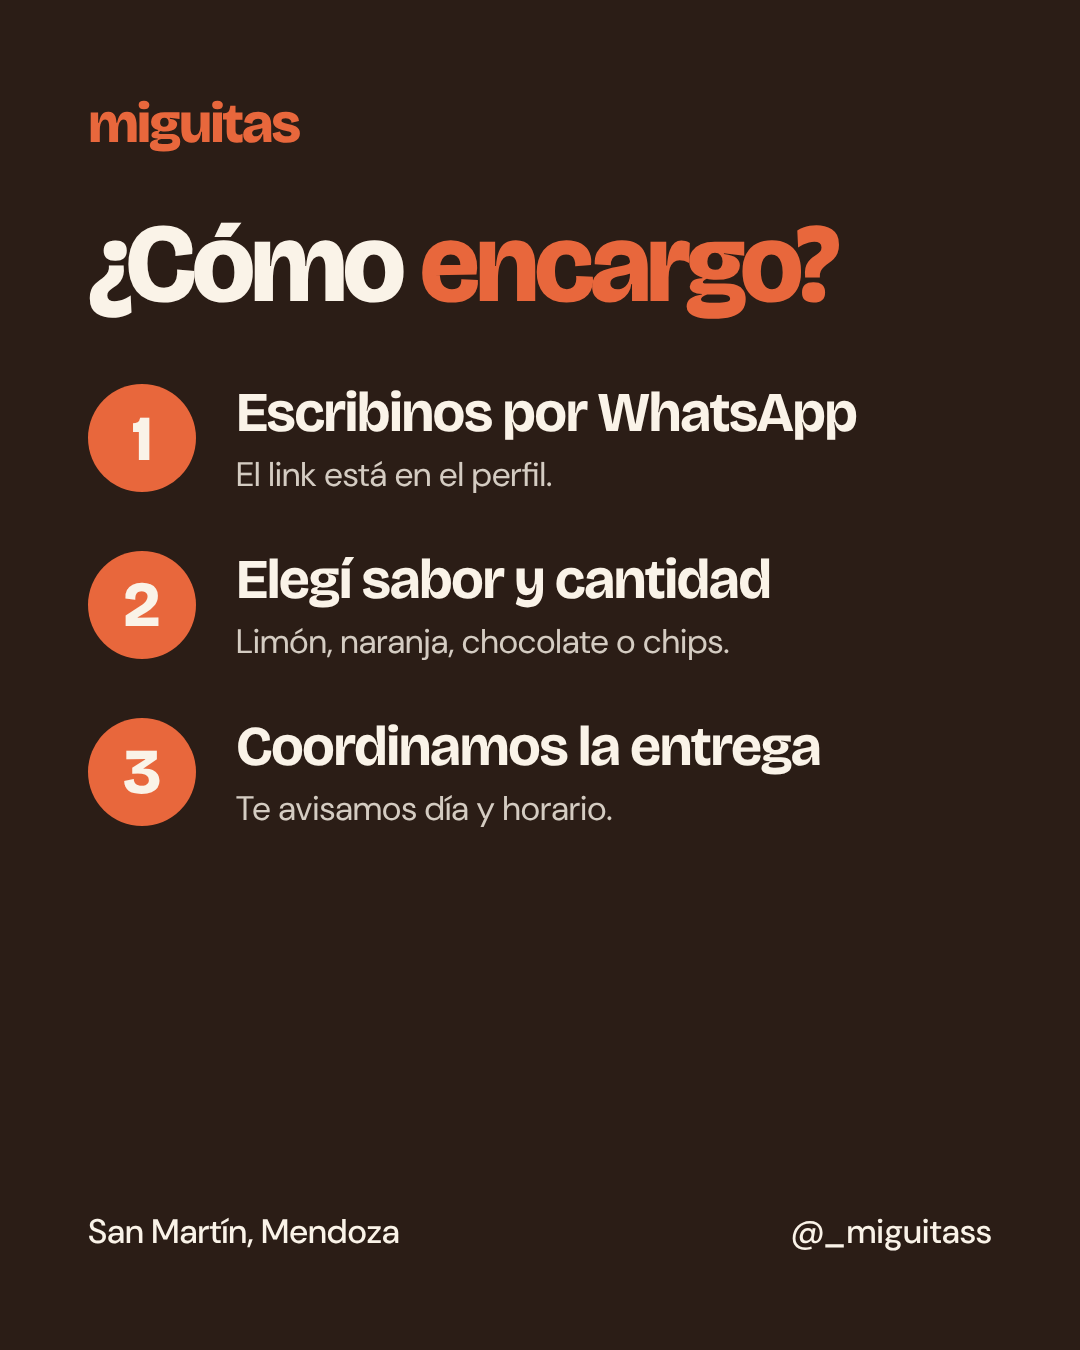
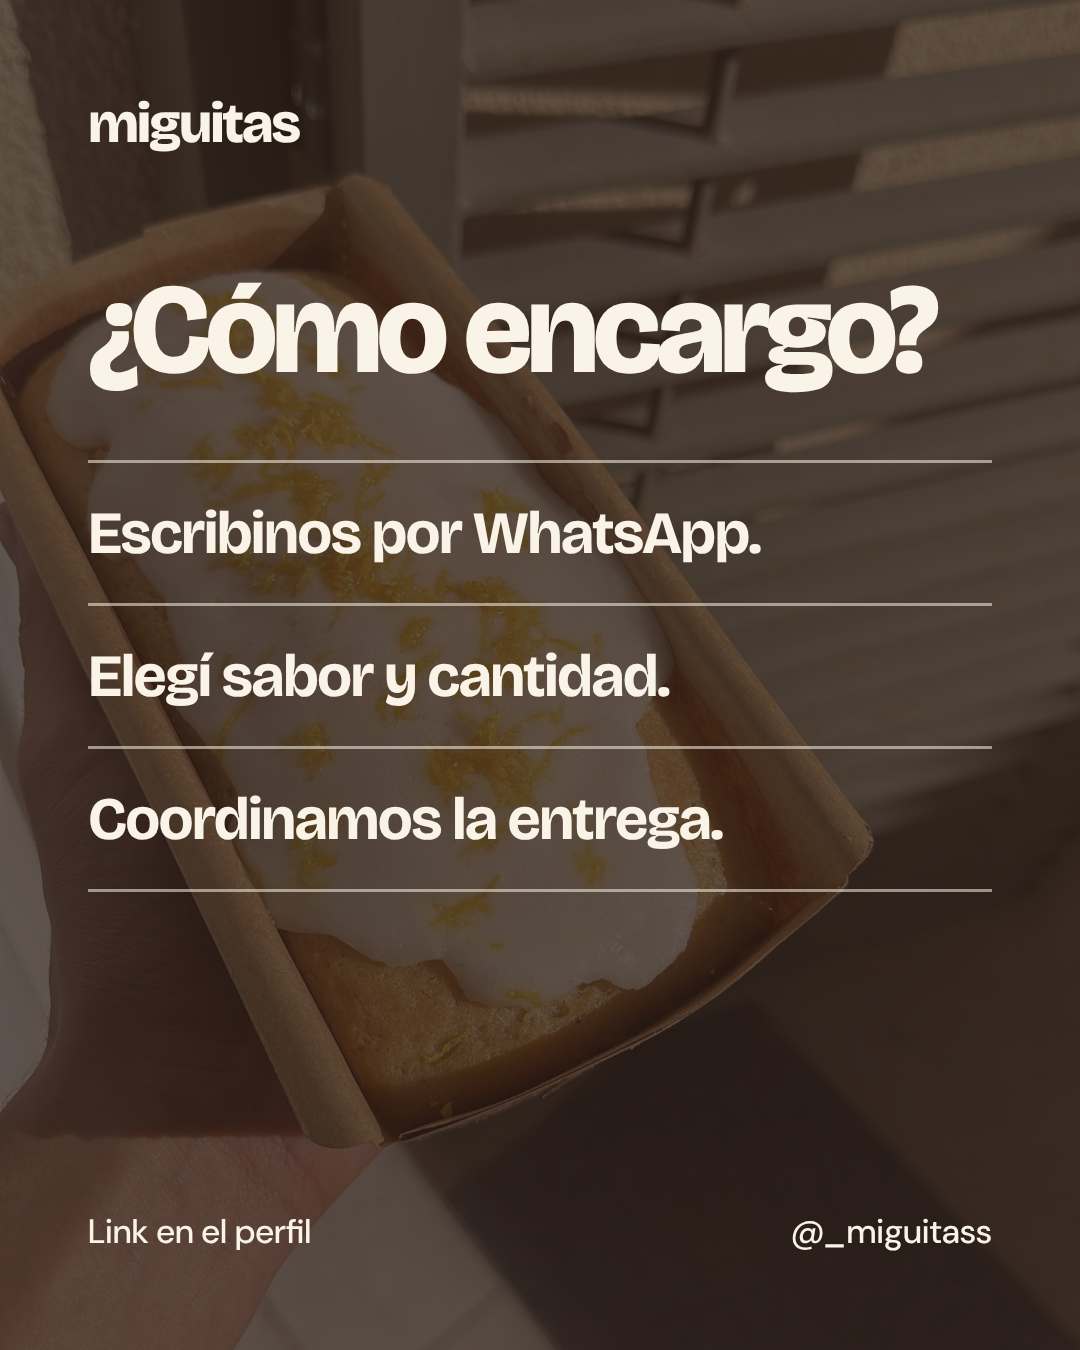
Instagram: placa de cómo encargar sobre foto del limón
Claude-Session: https://claude.ai/code/session_01E37741rvoTVLUcn2uQcmpN

diff --git a/instagram/exportar.js b/instagram/exportar.js
@@ -9,11 +9,11 @@ const path = require('path');
   await p.waitForTimeout(500);
   const nombres = { perfil: 'foto-de-perfil', 'd-sabores': 'destacada-sabores', 'd-encargos': 'destacada-encargos',
     'd-envios': 'destacada-envios', 'd-pagos': 'destacada-pagos', 'd-clientes': 'destacada-clientes',
-    'p-hola': 'post-1-presentacion', 'p-sabores': 'post-2-sabores', 'p-pasos': 'post-3-como-encargar' };
+    'p-hola': 'post-1-presentacion', 'p-sabores': 'post-2-sabores', 'o-foto': 'post-3-como-encargar' };
   for (const [id, n] of Object.entries(nombres))
     await p.locator('#' + id).screenshot({ path: path.join(__dirname, 'export', n + '.png') });
   // Primer post: carrusel de 5 placas, en el orden en que se suben
-  const carrusel = ['f-portada', 'f-todos', 'p-sabores', 'p-pasos', 'c-cierre'];
+  const carrusel = ['f-portada', 'f-todos', 'p-sabores', 'o-foto', 'c-cierre'];
   for (const [i, id] of carrusel.entries())
     await p.locator('#' + id).screenshot({ path: path.join(__dirname, 'export', 'primer-post', (i + 1) + '.png') });
   console.log('fuentes:', await p.evaluate(() => [...document.fonts].filter(f => f.status === 'loaded').length));

diff --git a/instagram/piezas.html b/instagram/piezas.html
@@ -83,8 +83,8 @@ body{background:#ddd;display:flex;flex-wrap:wrap;gap:40px;padding:40px;font-fami
 .msj.yo{align-self:flex-end;background:var(--mandarina);color:var(--crema);border-bottom-right-radius:8px}
 .msj.ellos{align-self:flex-start;background:#fff;border-bottom-left-radius:8px;box-shadow:0 2px 0 rgba(43,29,22,.08)}
 .msj small{display:block;font-size:24px;font-weight:700;letter-spacing:.04em;color:var(--mandarina);margin-bottom:4px}
-#o-foto{background:url(fotos/chips-de-arriba.jpg) 50% 40%/cover;color:var(--crema)}
-#o-foto::before{content:"";position:absolute;inset:0;background:rgba(43,29,22,.72)}
+#o-foto{background:url(fotos/limon-en-mano.jpg) 50% 48%/cover;color:var(--crema)}
+#o-foto::before{content:"";position:absolute;inset:0;background:rgba(43,29,22,.76)}
 #o-foto>*{position:relative}
 #o-foto h1{font-family:var(--display);font-weight:800;font-size:128px;letter-spacing:-.045em;line-height:.92;margin:120px 0 70px}
 #o-foto li{list-style:none;font-family:var(--display);font-weight:700;font-size:60px;letter-spacing:-.03em;padding:34px 0;border-top:3px solid rgba(250,243,232,.55)}
